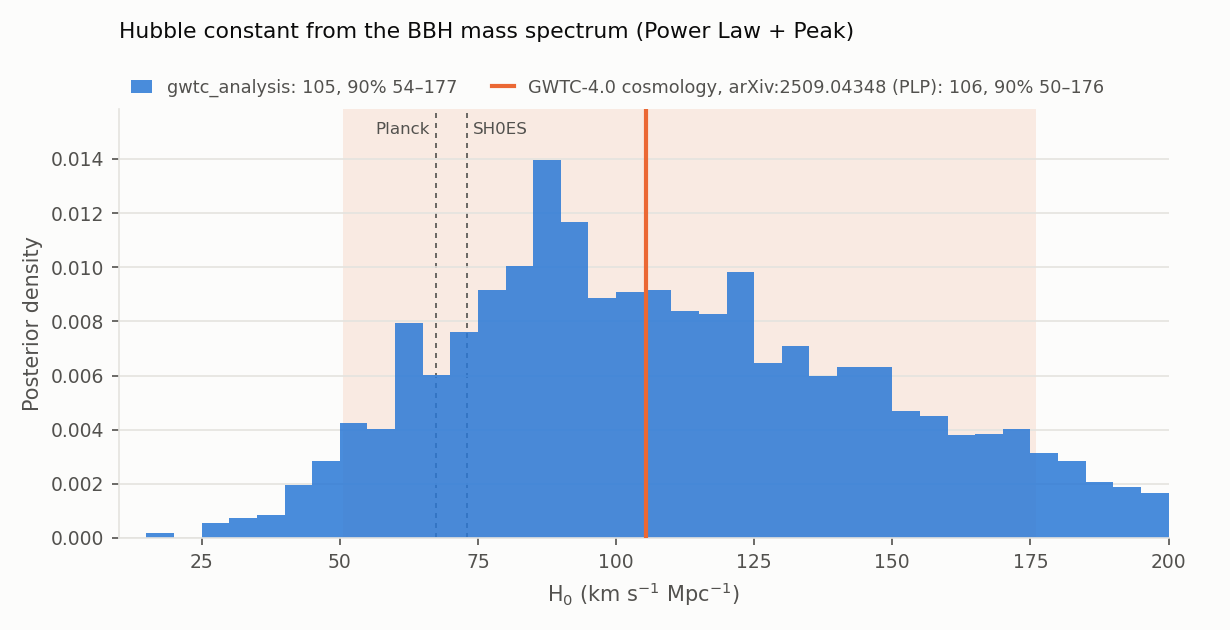
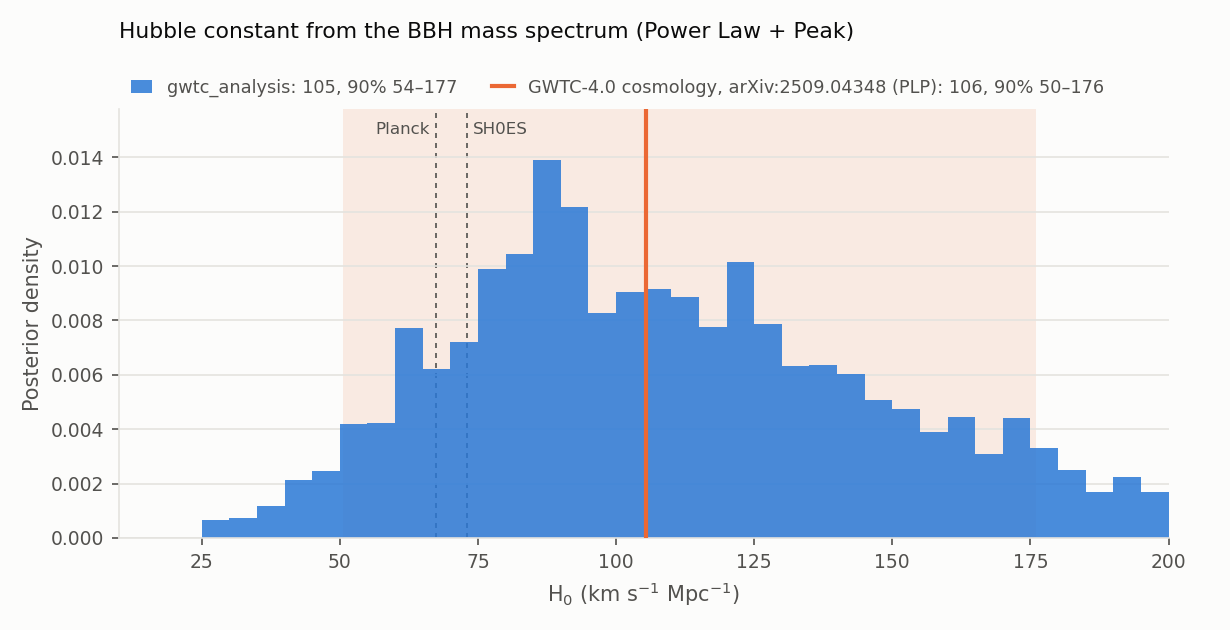
docs: example plots produced by gwtc_analysis on every mode page
catalog_statistics (GWTC-4.0: masses, histograms, source types, networks, sky areas),
event_selection (table), search_skymaps (a hit), parameters_estimation (GW150914: overlay,
q-transform, matched-filter SNR, masses, skymap), build_unofficial_pe (GW170817), rates (mass
distributions), hubble_constant (H0 posterior). H0 figures redrawn with the 137-event posteriors.

diff --git a/docs/modes/parameters-estimation.md b/docs/modes/parameters-estimation.md
@@ -77,4 +77,34 @@ A few official PE files have no PSDs. They are then taken from public supplement
 GW170817 has no catalog PE file. The mode transparently uses the bundle rebuilt from public GWTC-1
 products: see [build_unofficial_pe](unofficial-pe.md).
 
+## Example: GW150914
+
+```bash
+gwtc_analysis parameters_estimation --src-name GW150914_095045 \
+    --pe-vars chi_eff luminosity_distance --pe-pairs mass_1_source:mass_2_source
+```
+
+The first detection, from the GWTC-2.1 PE release; all the figures below come from this command.
+
+![H1 whitened strain with the projected waveform](../img/modes/pe_GW150914_H1_overlay.png)
+
+*H1 strain, whitened and band-passed, with the maximum-likelihood IMRPhenomXPHM waveform projected on
+the detector and aligned by the matched filter.*
+
+![L1 q-transform of GW150914](../img/modes/pe_GW150914_L1_qtransform.png)
+
+*L1 q-transform: the chirp rises from about 35 Hz to over 200 Hz in about 0.1 s.*
+
+![H1 matched-filter SNR](../img/modes/pe_GW150914_H1_snr.png)
+
+*Matched-filter SNR |ρ(t)|: a peak of 19.4 in H1 (13.9 in L1) at the coalescence time, over noise of
+unit-scale RMS.*
+
+| Source-frame masses | Sky localization |
+|---|---|
+| ![Primary against secondary source-frame mass](../img/modes/pe_GW150914_masses.png) | ![Skymap of GW150914](../img/modes/pe_GW150914_skymap.png) |
+
+*Posterior of the source-frame masses (about 35 and 30 M☉), and the skymap of the IMRPhenomXPHM
+analysis: 159 deg² at 90% with the two LIGO detectors.*
+
 All options: [CLI reference](../cli-reference.md#parameters_estimation).

diff --git a/docs/modes/catalog-statistics.md b/docs/modes/catalog-statistics.md
@@ -20,4 +20,31 @@ event from the GWOSC v2 API; with `--include-area`, the sky-localization area at
   cumulative distribution of the sky-localization areas;
 - `--out-report`: the HTML report with the tables and plots.
 
+## Example
+
+```bash
+gwtc_analysis catalog_statistics --catalogs GWTC-4 --include-detectors --include-area
+```
+
+GWTC-4.0 (O4a), 86 events with a PE release; every figure below was produced by this command.
+
+![Primary against secondary source-frame mass, colored by network SNR](../img/modes/catstat_m1_m2_snr.png)
+
+*Median source-frame masses, colored by network SNR. The heaviest event is GW231123; the two points
+near the horizontal axis are the NSBH candidates.*
+
+![Histograms of total mass, luminosity distance and network SNR](../img/modes/catstat_histograms.png)
+
+| Source types | Detector networks |
+|---|---|
+| ![Source types](../img/modes/catstat_source_types.png) | ![Detector networks](../img/modes/catstat_network.png) |
+
+*84 BBHs and 2 NSBHs; 77 events seen by the two LIGO detectors, 9 by one only (Virgo did not observe
+during O4a).*
+
+![Cumulative distribution of the 90% sky areas](../img/modes/catstat_area_cdf.png){ width="560" }
+
+*90% sky areas from the Zenodo PE skymaps: median 2 065 deg² with two detectors, about 27 600 deg²
+with a single detector, which localizes an event only to a large part of the sky.*
+
 All options: [CLI reference](../cli-reference.md#catalog_statistics).

diff --git a/docs/modes/unofficial-pe.md b/docs/modes/unofficial-pe.md
@@ -43,4 +43,24 @@ The bundle is cached with a fingerprint of its recipe (`<bundle>.recipe.json`) a
 recipe or a source file changes. A missing source that cannot be downloaded stops the build, and the
 overlays of this special case are then not produced.
 
+## Example
+
+```bash
+gwtc_analysis parameters_estimation --src-name GW170817 \
+    --overlay-start 0.2 --overlay-stop 0.2 --overlay-fmax 1000 --q-start 2 --q-stop 2 --q-fmax 1000
+```
+
+`parameters_estimation` uses the rebuilt bundle transparently:
+
+![L1 q-transform of GW170817](../img/modes/pe_GW170817_L1_qtransform.png)
+
+*L1 q-transform: the binary-neutron-star chirp, visible for about 2 s as it rises from 100 to about
+300 Hz, much longer than a BBH signal.*
+
+![L1 matched-filter SNR of GW170817](../img/modes/pe_GW170817_L1_snr.png)
+
+*Matched-filter SNR with the maximum-likelihood IMRPhenomPv2_NRTidal waveform: 25.0 in L1 and 18.0 in
+H1 at the coalescence time, recovered from the public samples, PSDs and the fitted extrinsic
+parameters.*
+
 All options: [CLI reference](../cli-reference.md#build_unofficial_pe).

diff --git a/docs/modes/hubble-constant.md b/docs/modes/hubble-constant.md
@@ -231,4 +231,20 @@ fewest. The report flags values below the thresholds; more `--pe-samples` or a l
 number of injections stayed above 3 800 (threshold 544), while the smallest per-event value had a
 median of 27 and reached 8 at some draws (threshold 10), for the lightest BBHs such as GW190924.
 
+## Example
+
+```bash
+gwtc_analysis hubble_constant --stages prepare
+gwtc_analysis hubble_constant --stages sample combine reweight report \
+    --icarogw-python ~/.conda/envs/icarogw/bin/python --seeds 1 2 3 4 --parallel 2 --npool 2
+```
+
+The report leads with the H₀ posterior, compared with the published value of the same mass model:
+
+![H0 posterior of the Power Law + Peak reproduction](../img/h0_posterior.png)
+
+*GWTC-4.0, Power Law + Peak: 10 runs with 10% of the injections, reweighted to all of them; the
+published result (orange line, 90% band) and the Planck and SH0ES values for comparison. Details in
+[Hubble constant (spectral siren)](../science/spectral-siren.md).*
+
 All options: [CLI reference](../cli-reference.md#hubble_constant).

diff --git a/docs/modes/search-skymaps.md b/docs/modes/search-skymaps.md
@@ -21,4 +21,18 @@ events that contain it are plotted in `--plots-dir` and gathered in `--out-repor
 The catalog skymaps are built by the LVK from the PE posterior samples; see
 Singer et al. 2016 [\[56\]](../references.md#ref-56) for the three-dimensional skymap format.
 
+## Example
+
+```bash
+gwtc_analysis search_skymaps --catalogs GWTC-4 --ra-deg 265.0 --dec-deg -46.0 --prob 0.9
+```
+
+The position (RA 265°, Dec −46°) lies inside the 90% credible region of 13 of the 86 GWTC-4.0
+skymaps; each hit is plotted, with a zoom on the position:
+
+![Skymap of GW230529 with the searched position](../img/modes/skymap_hit_GW230529.png)
+
+*GW230529_181500, seen by a single detector: its 90% region covers 25 400 deg², more than half of
+the sky, and contains the position (star) at the 16% credible level.*
+
 All options: [CLI reference](../cli-reference.md#search_skymaps).

diff --git a/docs/modes/event-selection.md b/docs/modes/event-selection.md
@@ -20,4 +20,19 @@ gwtc_analysis event_selection --catalogs ALL --m2-max 3
 The selection is written to `--out-selection` (TSV). It uses the GWOSC confident lists; for analyses
 that need the marginal candidates as well, see [Known issues](../known-data-issues.md#gw200105-only-in-the-marginal-list).
 
+## Example
+
+```bash
+gwtc_analysis event_selection --catalogs ALL --m1-min 50 --dl-max 2000
+```
+
+Heavy binaries within 2 Gpc; the TSV (`event_selection.tsv`) lists:
+
+| event_id | catalog_key | mass_1_source | mass_2_source | luminosity_distance |
+|---|---|---|---|---|
+| GW191109_010717-v1 | GWTC-3 | 65.0 | 47.0 | 1290 |
+| GW240519_012815-v1 | GWTC-5 | 65.0 | 39.0 | 1740 |
+| GW241127_061008-v1 | GWTC-5 | 63.8 | 20.8 | 1080 |
+| GW241225_082815-v1 | GWTC-5 | 55.7 | 42.2 | 1880 |
+
 All options: [CLI reference](../cli-reference.md#event_selection).

diff --git a/docs/modes/rates.md b/docs/modes/rates.md
@@ -89,4 +89,19 @@ GWTC-3 [\[12\]](../references.md#ref-12).
 - `--out-report` (HTML): the tables, and the observed and selection-corrected primary-mass
   distributions.
 
+## Example
+
+```bash
+gwtc_analysis rates
+```
+
+The HTML report shows, with the rates table, the observed and the selection-corrected primary-mass
+distributions:
+
+![Observed and selection-corrected primary-mass distributions](../img/modes/rates_mass_distribution.png){ width="640" }
+
+*O3 to O4b, GWTC-5.0 injections. Top: detected candidates per bin of primary mass. Bottom: merger
+rate per logarithmic mass interval, the counts divided by the sensitive volume-time of each bin. The
+peaks near 10 and 35 M☉ stand out once the heavy binaries' larger detection volume is removed.*
+
 All options: [CLI reference](../cli-reference.md#rates).
